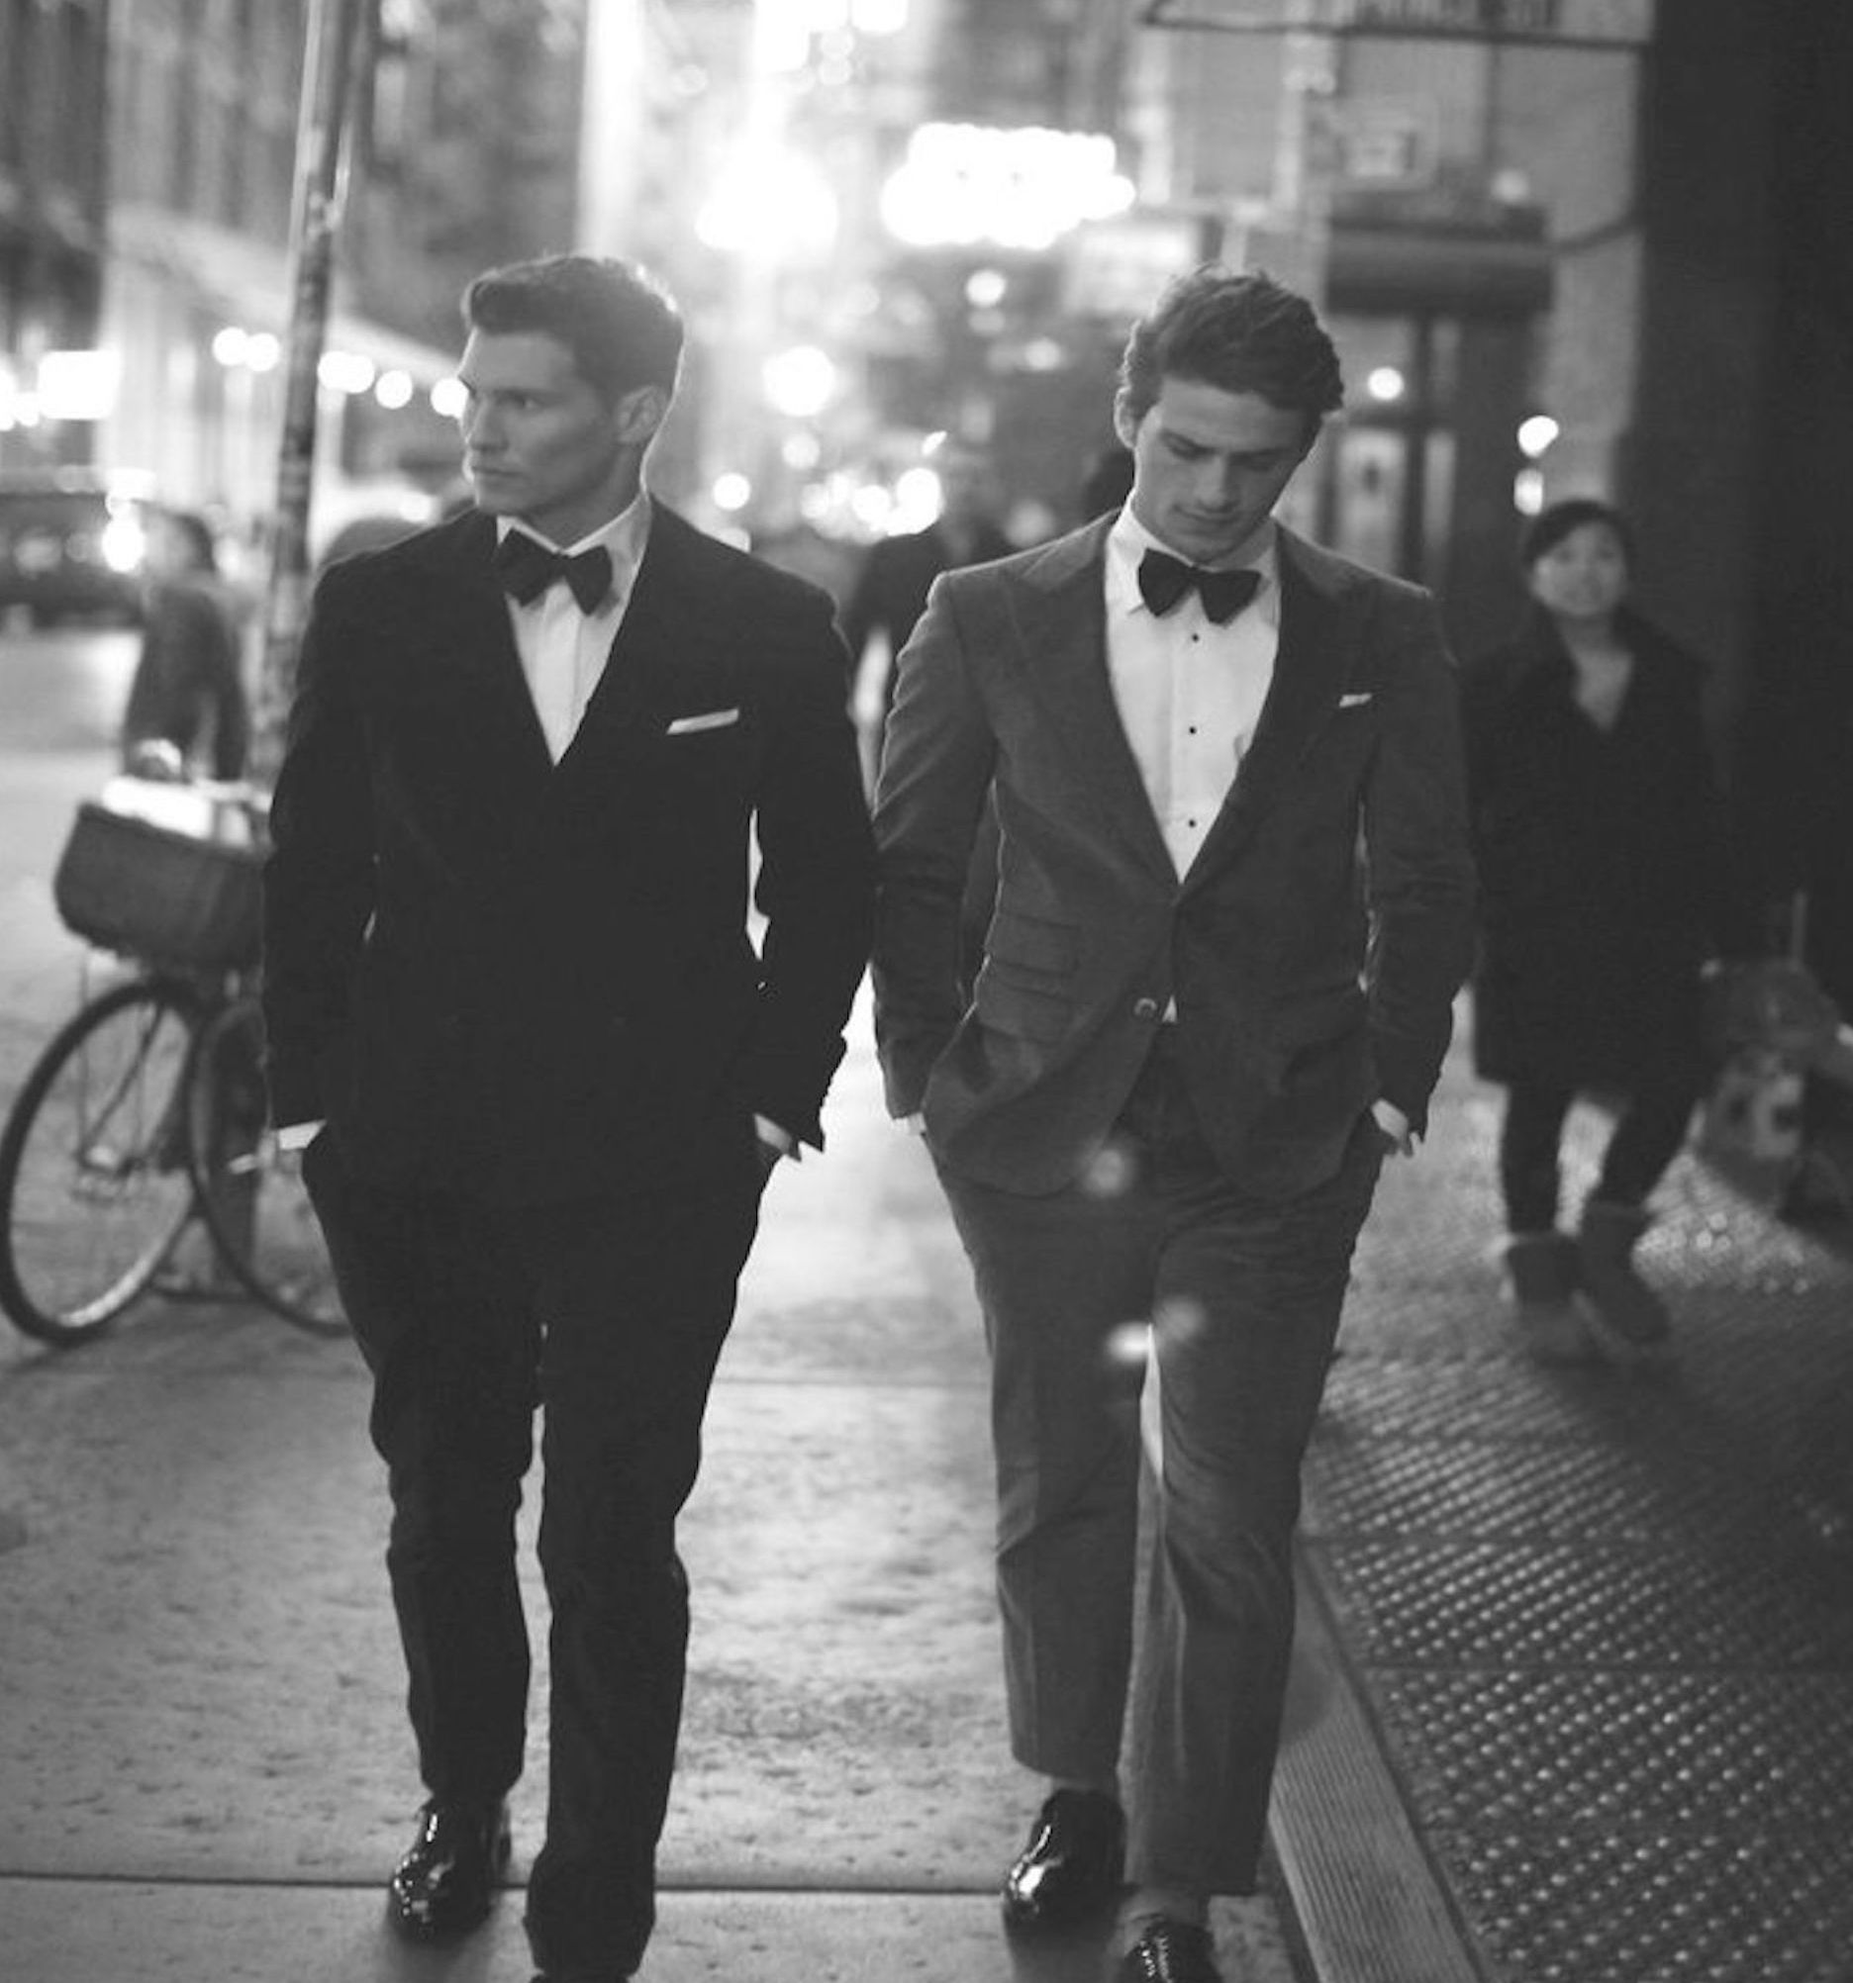
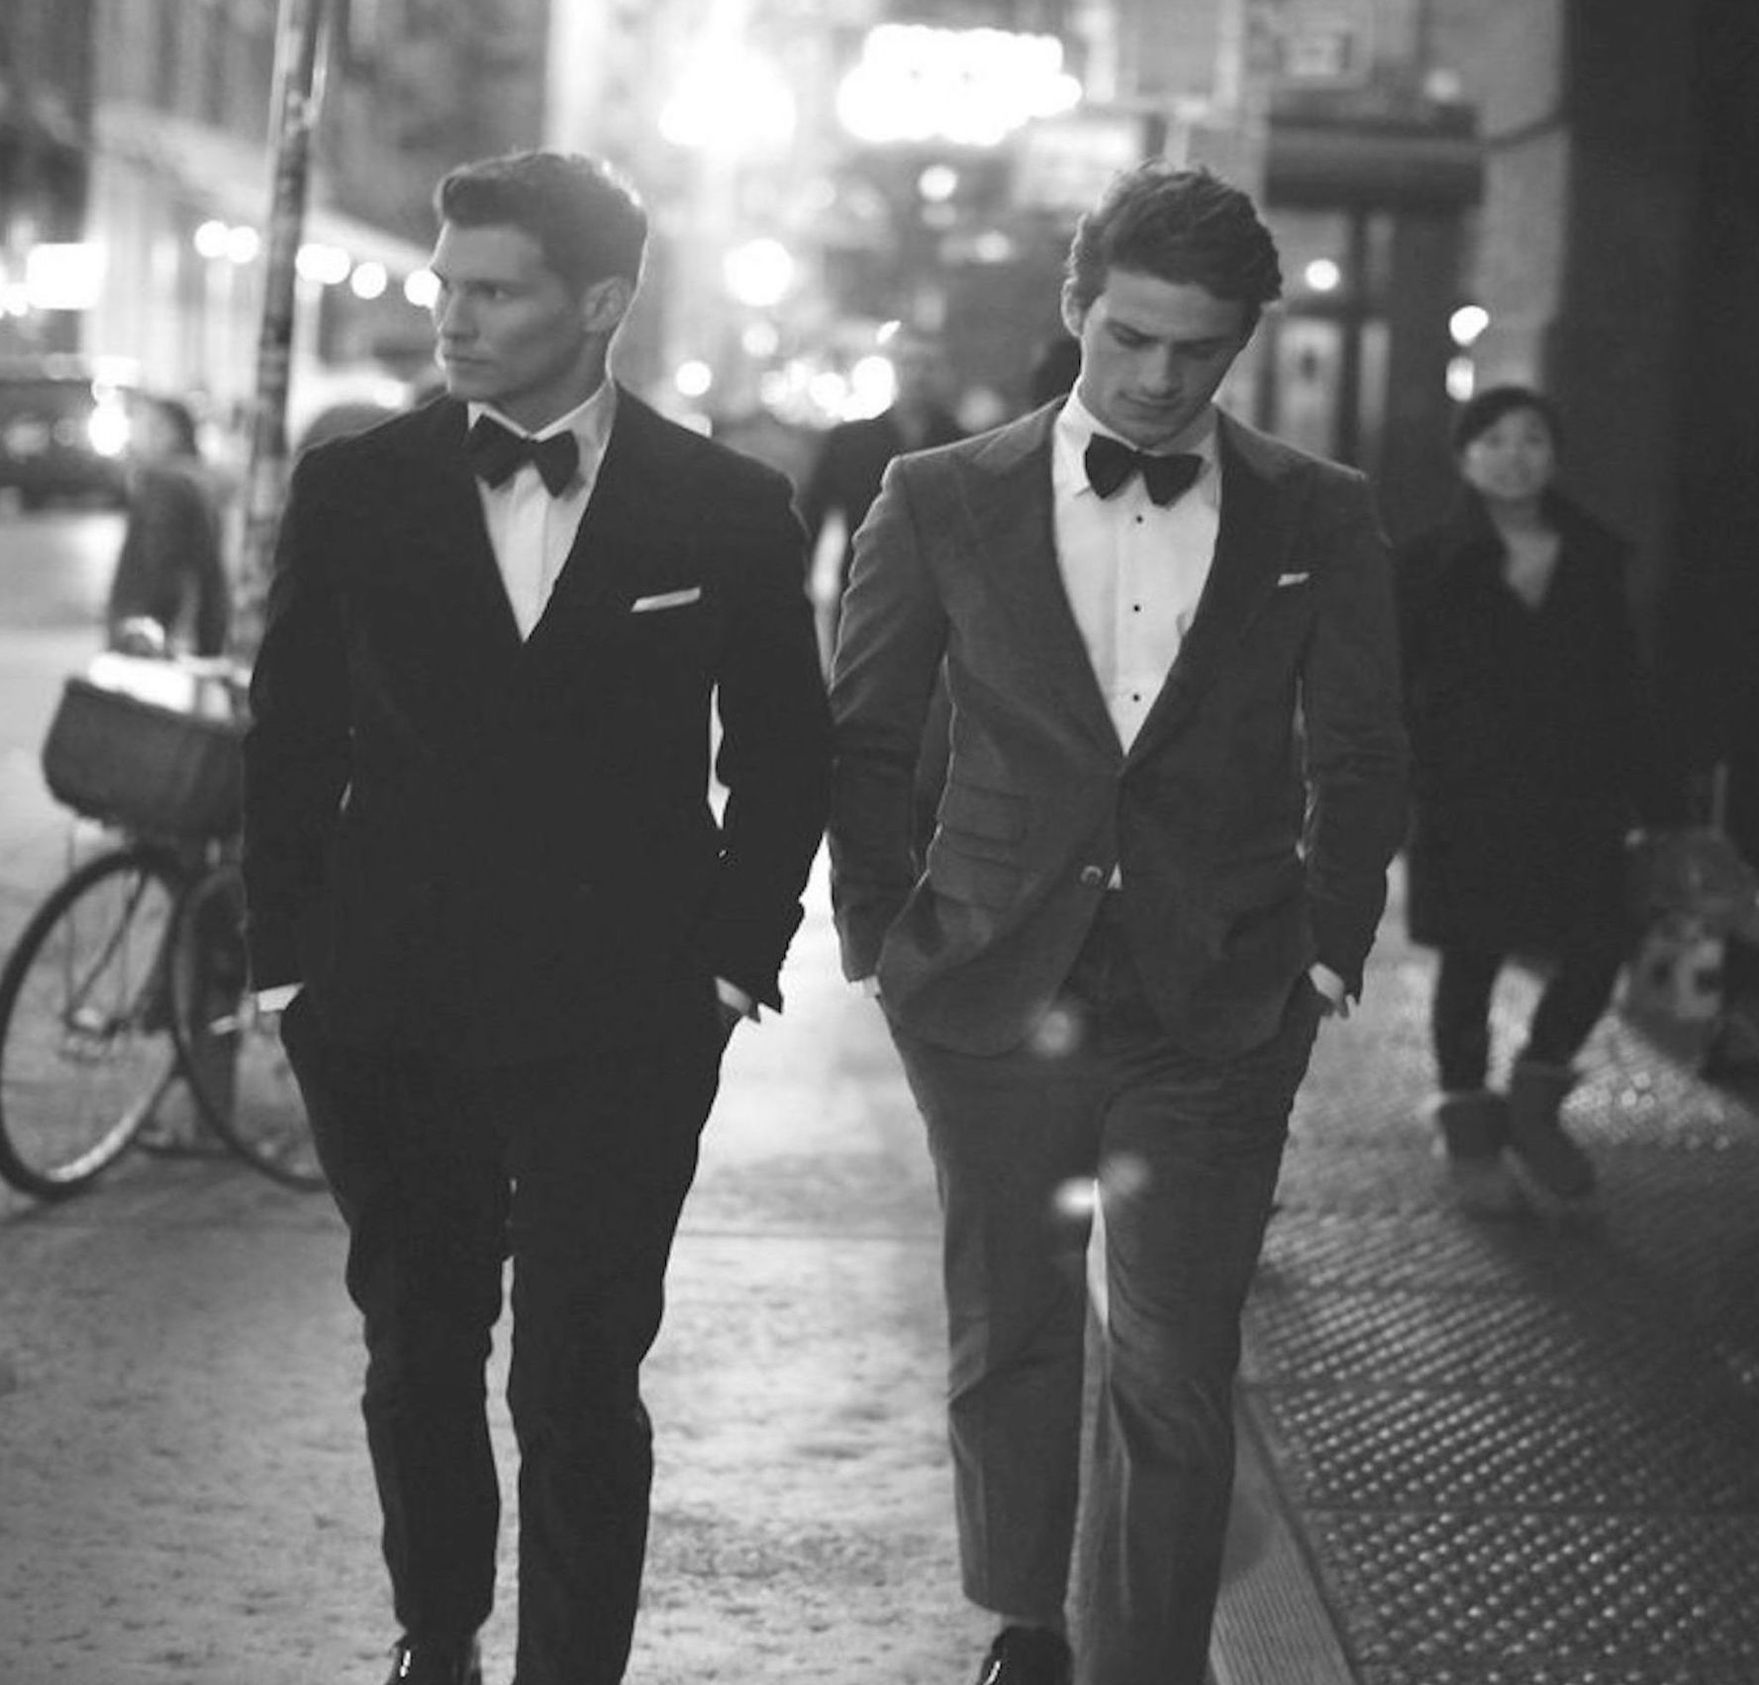
chgt picture

diff --git a/app/assets/stylesheets/home.css.scss b/app/assets/stylesheets/home.css.scss
@@ -3,7 +3,7 @@
 }
 
 .jumbotron {
-  background-image: url('home.jpg');
+  background-image: url('home2.png');
   background-size: cover;
   height: 600px;
   padding-top: 250px;
